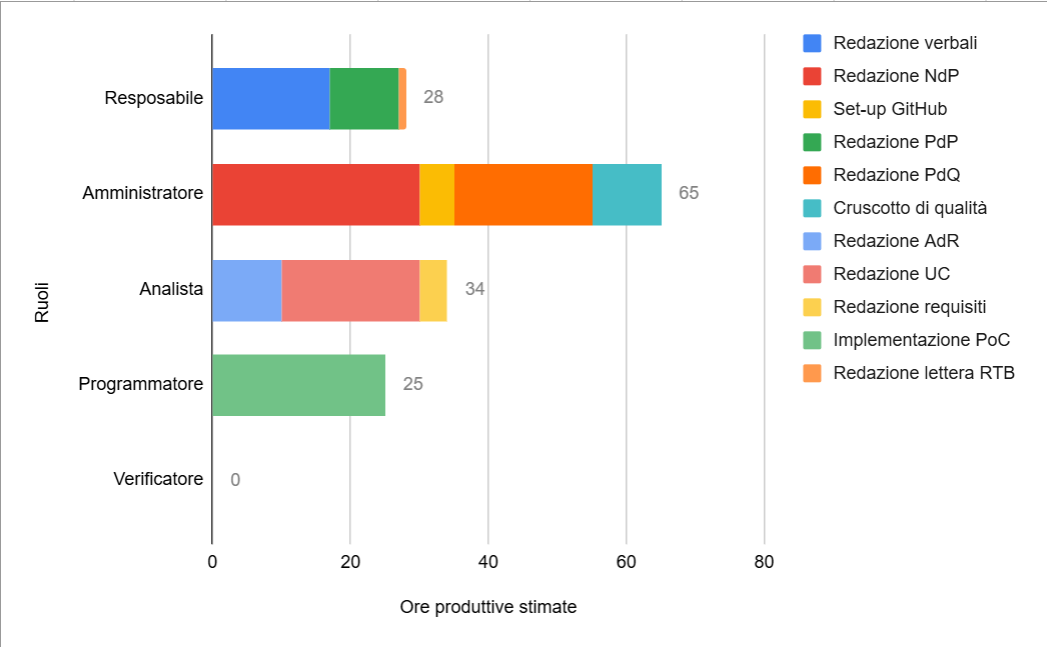
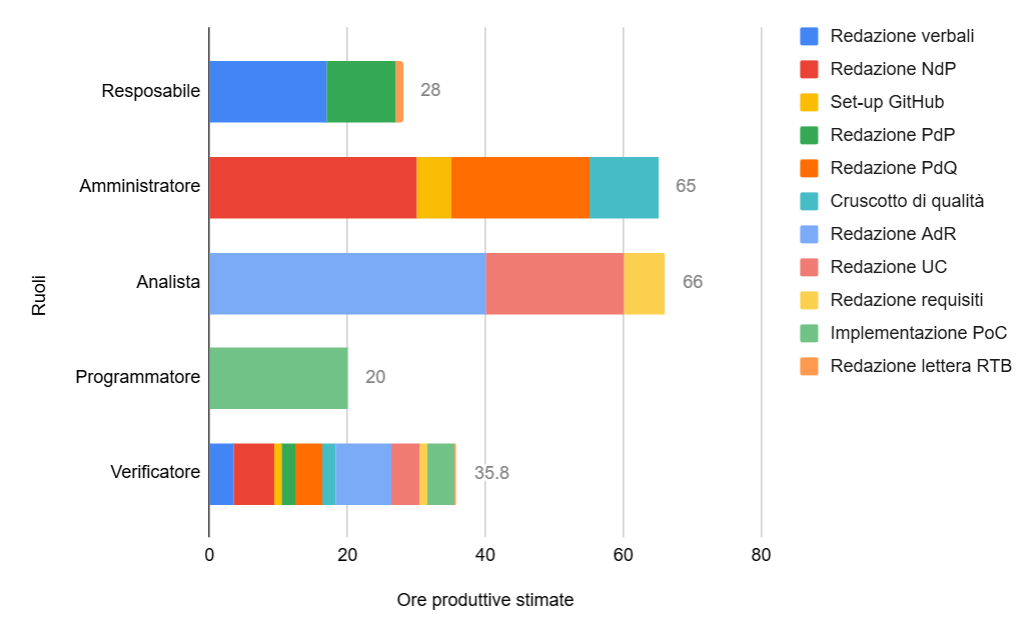
Aggiornato il grafo della distribuzione delle ore per task

diff --git a/src/RTB/documenti_esterni/piano_di_progetto/piano_di_progetto.tex b/src/RTB/documenti_esterni/piano_di_progetto/piano_di_progetto.tex
@@ -6,7 +6,7 @@
 % =======================================================
 \newcommand{\TitoloDocumento}{Piano di Progetto}
 \newcommand{\DataVersione}{AAAA/MM/GG}
-\newcommand{\VersioneAttuale}{0.3.1}
+\newcommand{\VersioneAttuale}{0.4.3}
 
 % =======================================================
 % 2. PACCHETTI
@@ -177,7 +177,13 @@ Gruppo BitByBit\\\\
 \textbf{Versione} & \textbf{Data} & \textbf{Autore} & \textbf{Descrizione} & \textbf{Verificatore} \\
 \hline
 \rowcolor{white}
-0.3.2 & 2026-01-14 & Ferdinando Fracasso & Aggiunte informazioni generali documento nella pagina iniziale & Riccardo Manisi \\
+0.4.3 & 2026-02-03 & Dennis Parolin & Aggiornato il grafico della distribuzione ore per task (figura \ref{fig:distribuzione_ore_rtb}) & Marco Sanguin \\
+\hline
+\rowcolor{gray!20}
+0.4.2 & 2026-01-14 & Ferdinando Fracasso & Aggiunte informazioni generali documento nella pagina iniziale & Riccardo Manisi \\
+\hline
+\rowcolor{white}
+0.4.2 & 2026-01-24 & Dennis Parolin & Aggiunta del grafico con distribuzione ore per task (figura \ref{fig:distribuzione_ore_rtb}) nella sezione di attività previste per la RTB e sistemate alcune date non presenti nel documento & Gabriele Scaggiante \\
 \hline
 \rowcolor{gray!20}
 0.4.1 & 2026-01-14 & Ferdinando Fracasso & Aggiunte informazioni generali documento nella pagina iniziale & Riccardo Manisi \\
@@ -720,6 +726,18 @@ Si stima inoltre una candidatura per la \textbf{Requirements and Technology Base
 
 Per le fasi di \textbf{Requirements and Technology Baseline (RTB)} e \textbf{Product Baseline (PB)} sono state definite delle attività specifiche da completare. Queste sono fondamentali per una corretta gestione degli sprint che verranno eseguiti. Di seguito sono elencate le attività previste:
 
+Per garantire una corretta distribuzione del carico di lavoro e rispettare le scadenze previste per la RTB, è stata effettuata una stima dettagliata delle ore necessarie per ogni ruolo, suddivise per task specifici. Questa analisi permette di evidenziare come le diverse attività impattino sull'impegno complessivo dei membri del team.
+Il grafico seguente (Figura \ref{fig:distribuzione_ore_rtb}) illustra visivamente il monte ore totale previsto per ciascun ruolo nella fase di RTB, evidenziando tramite i diversi colori il contributo delle singole attività al carico di lavoro complessivo.
+
+In particolare, per stimare le ore del Verificatore visibili nel grafico, è stato deciso di calcolarle come il 20\% delle ore previste per quella specifica task. Ad esempio, se l'attività \textbf{Redazione verbali} occupa 17 ore del Responsabile, la relativa verifica è stimata in 3.4 ore. È importante notare che questa è solo una stima: eventuali ore risparmiate su alcune task potranno essere sfruttate per la verifica di altre attività.
+
+\begin{figure}[H]
+    \centering
+    \includegraphics[width=\textwidth]{../../../../resources/distribuzione_ore_rtb.png}
+    \caption{Distribuzione ore produttive stimate per ruolo e attività - RTB}
+    \label{fig:distribuzione_ore_rtb}
+\end{figure}
+
 % ======================= ATTIVITA PREVISTE PER RTB =======================
 \subsection{Attività previste per la Requirements and Technology Baseline (RTB)}
 
@@ -769,6 +787,8 @@ Per le fasi di \textbf{Requirements and Technology Baseline (RTB)} e \textbf{Pro
 
 Per garantire una corretta distribuzione del carico di lavoro e rispettare le scadenze previste per la RTB, è stata effettuata una stima dettagliata delle ore necessarie per ogni ruolo, suddivise per task specifici. Questa analisi permette di evidenziare come le diverse attività impattino sull'impegno complessivo dei membri del team.
 Il grafico seguente (Figura \ref{fig:distribuzione_ore_rtb}) illustra visivamente il monte ore totale previsto per ciascun ruolo nella fase di RTB, evidenziando tramite i diversi colori il contributo delle singole attività al carico di lavoro complessivo.
+
+In particolare, per stimare le ore del Verificatore visibili nel grafico, è stato deciso di calcolarle come il 20\% delle ore previste per quella specifica task. Ad esempio, se l'attività \textbf{Redazione verbali} occupa 17 ore del Responsabile, la relativa verifica è stimata in 3.4 ore. È importante notare che questa è solo una stima: eventuali ore risparmiate su alcune task potranno essere sfruttate per la verifica di altre attività.
 
 \begin{figure}[H]
     \centering
